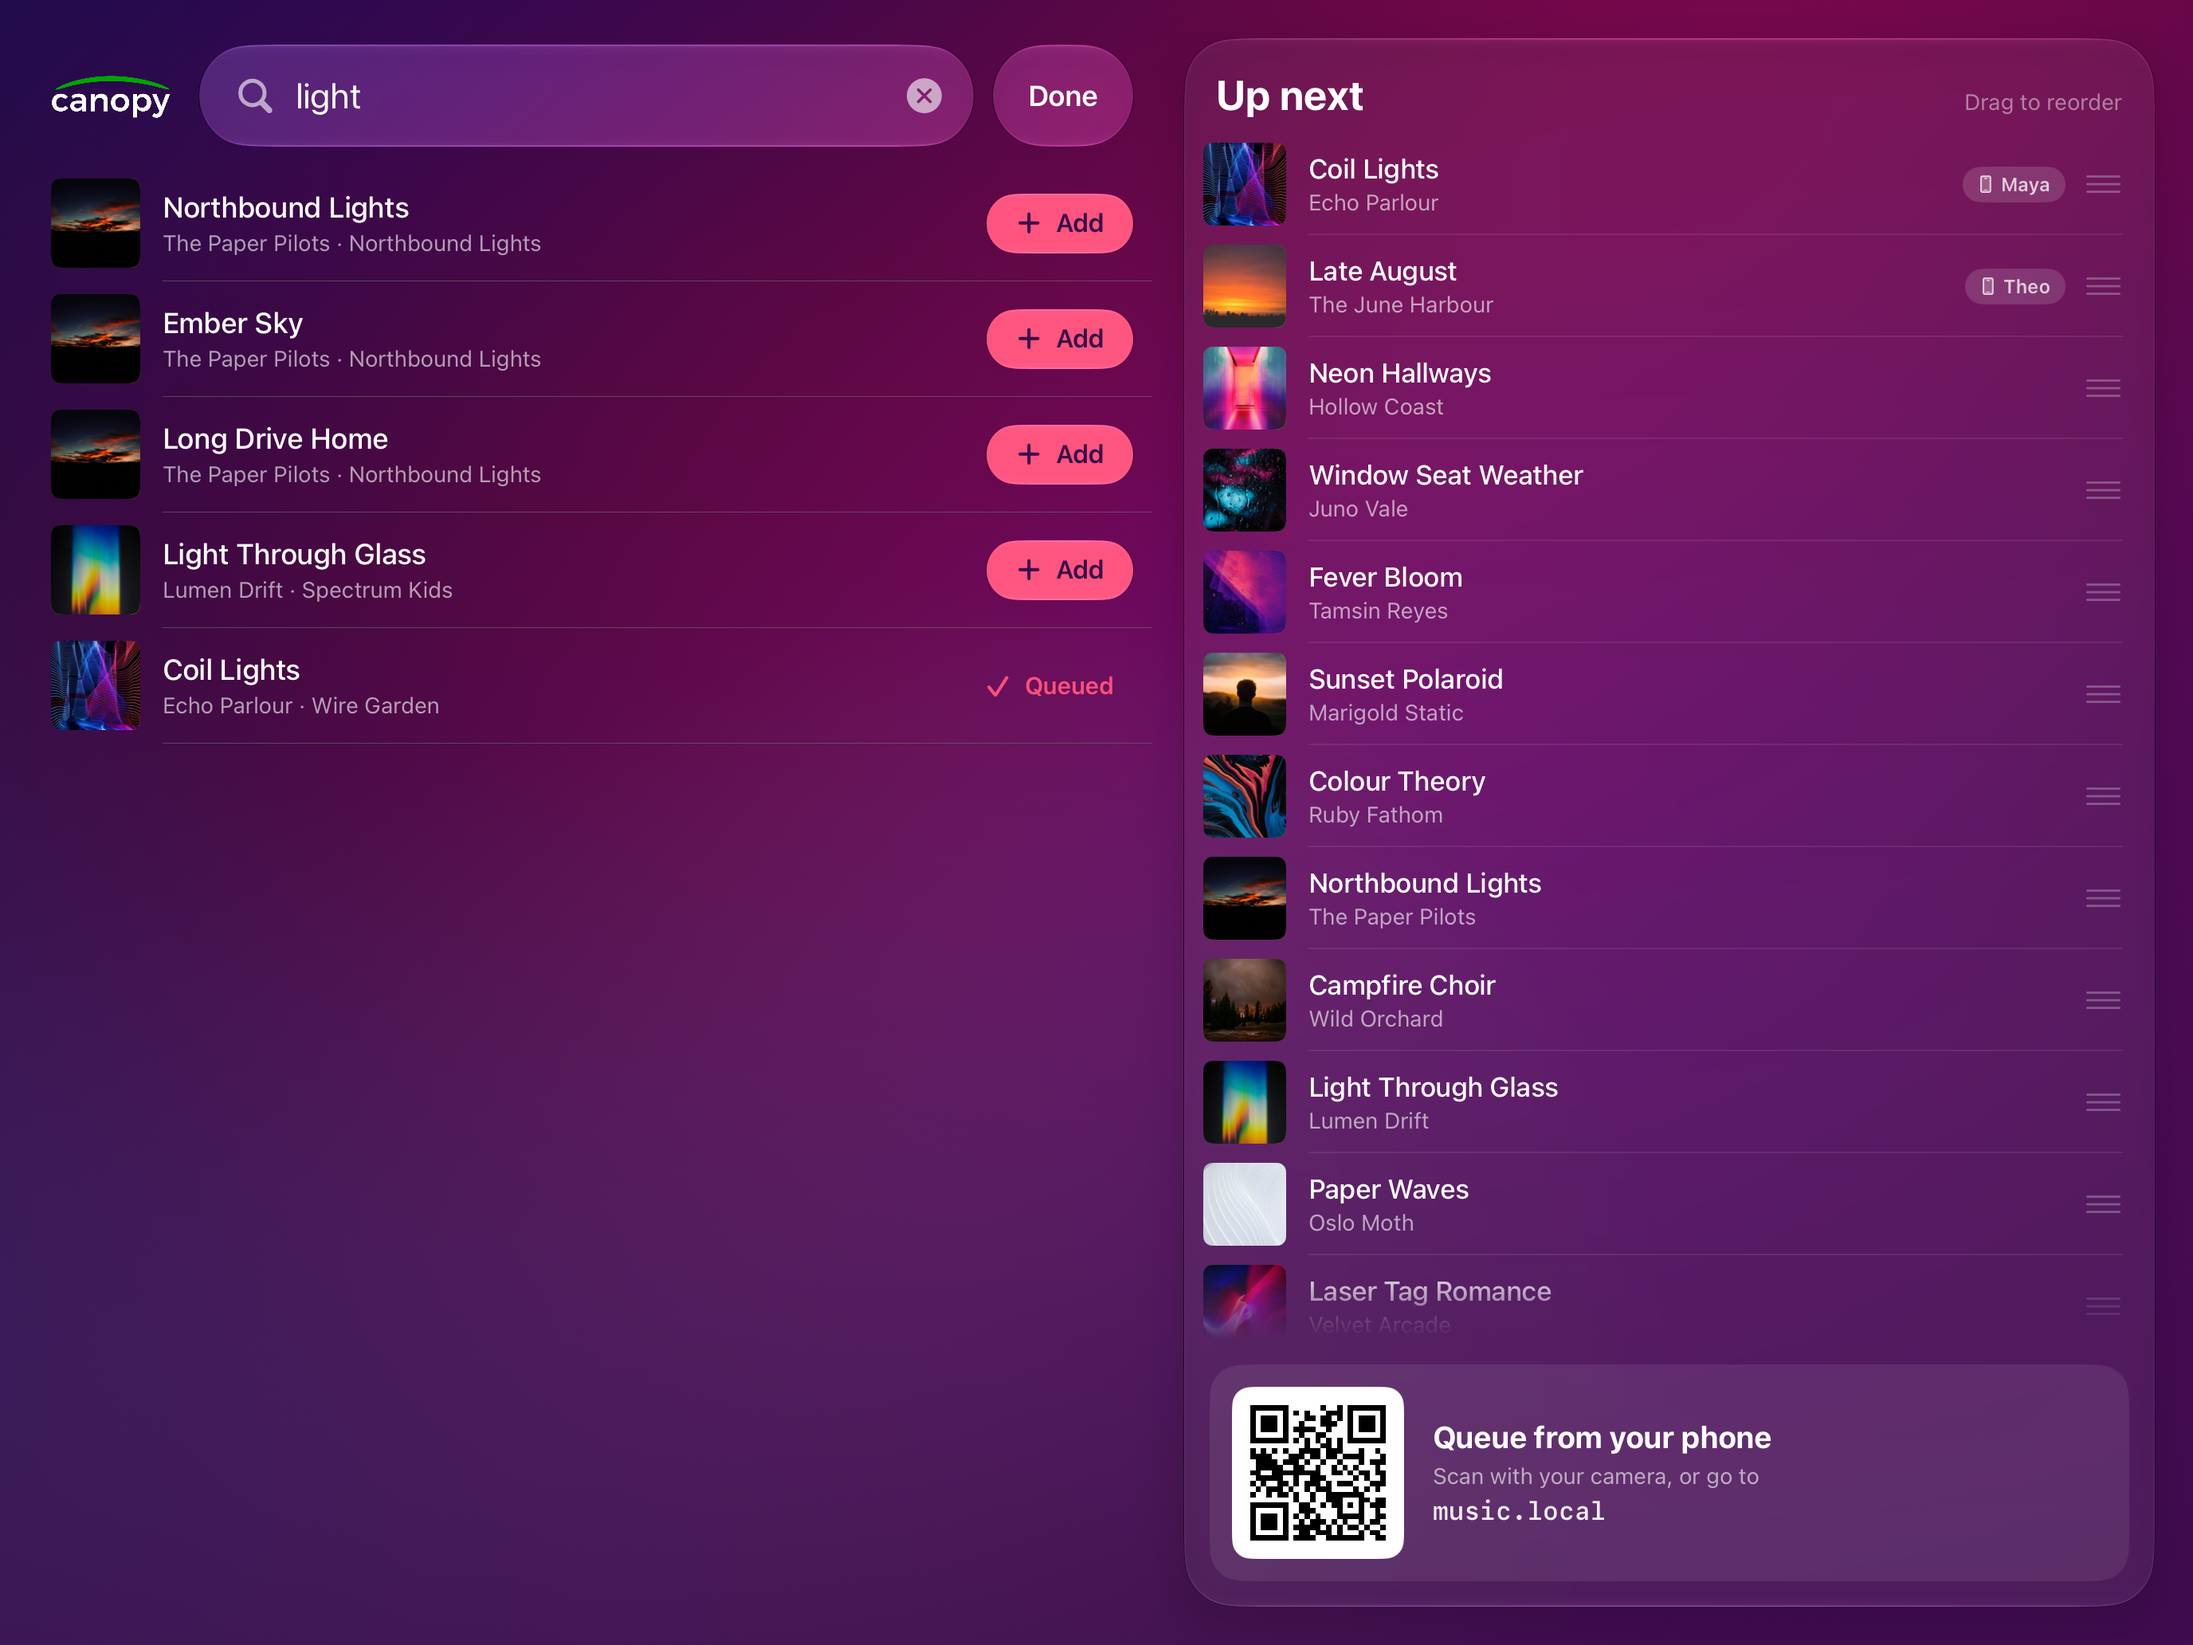
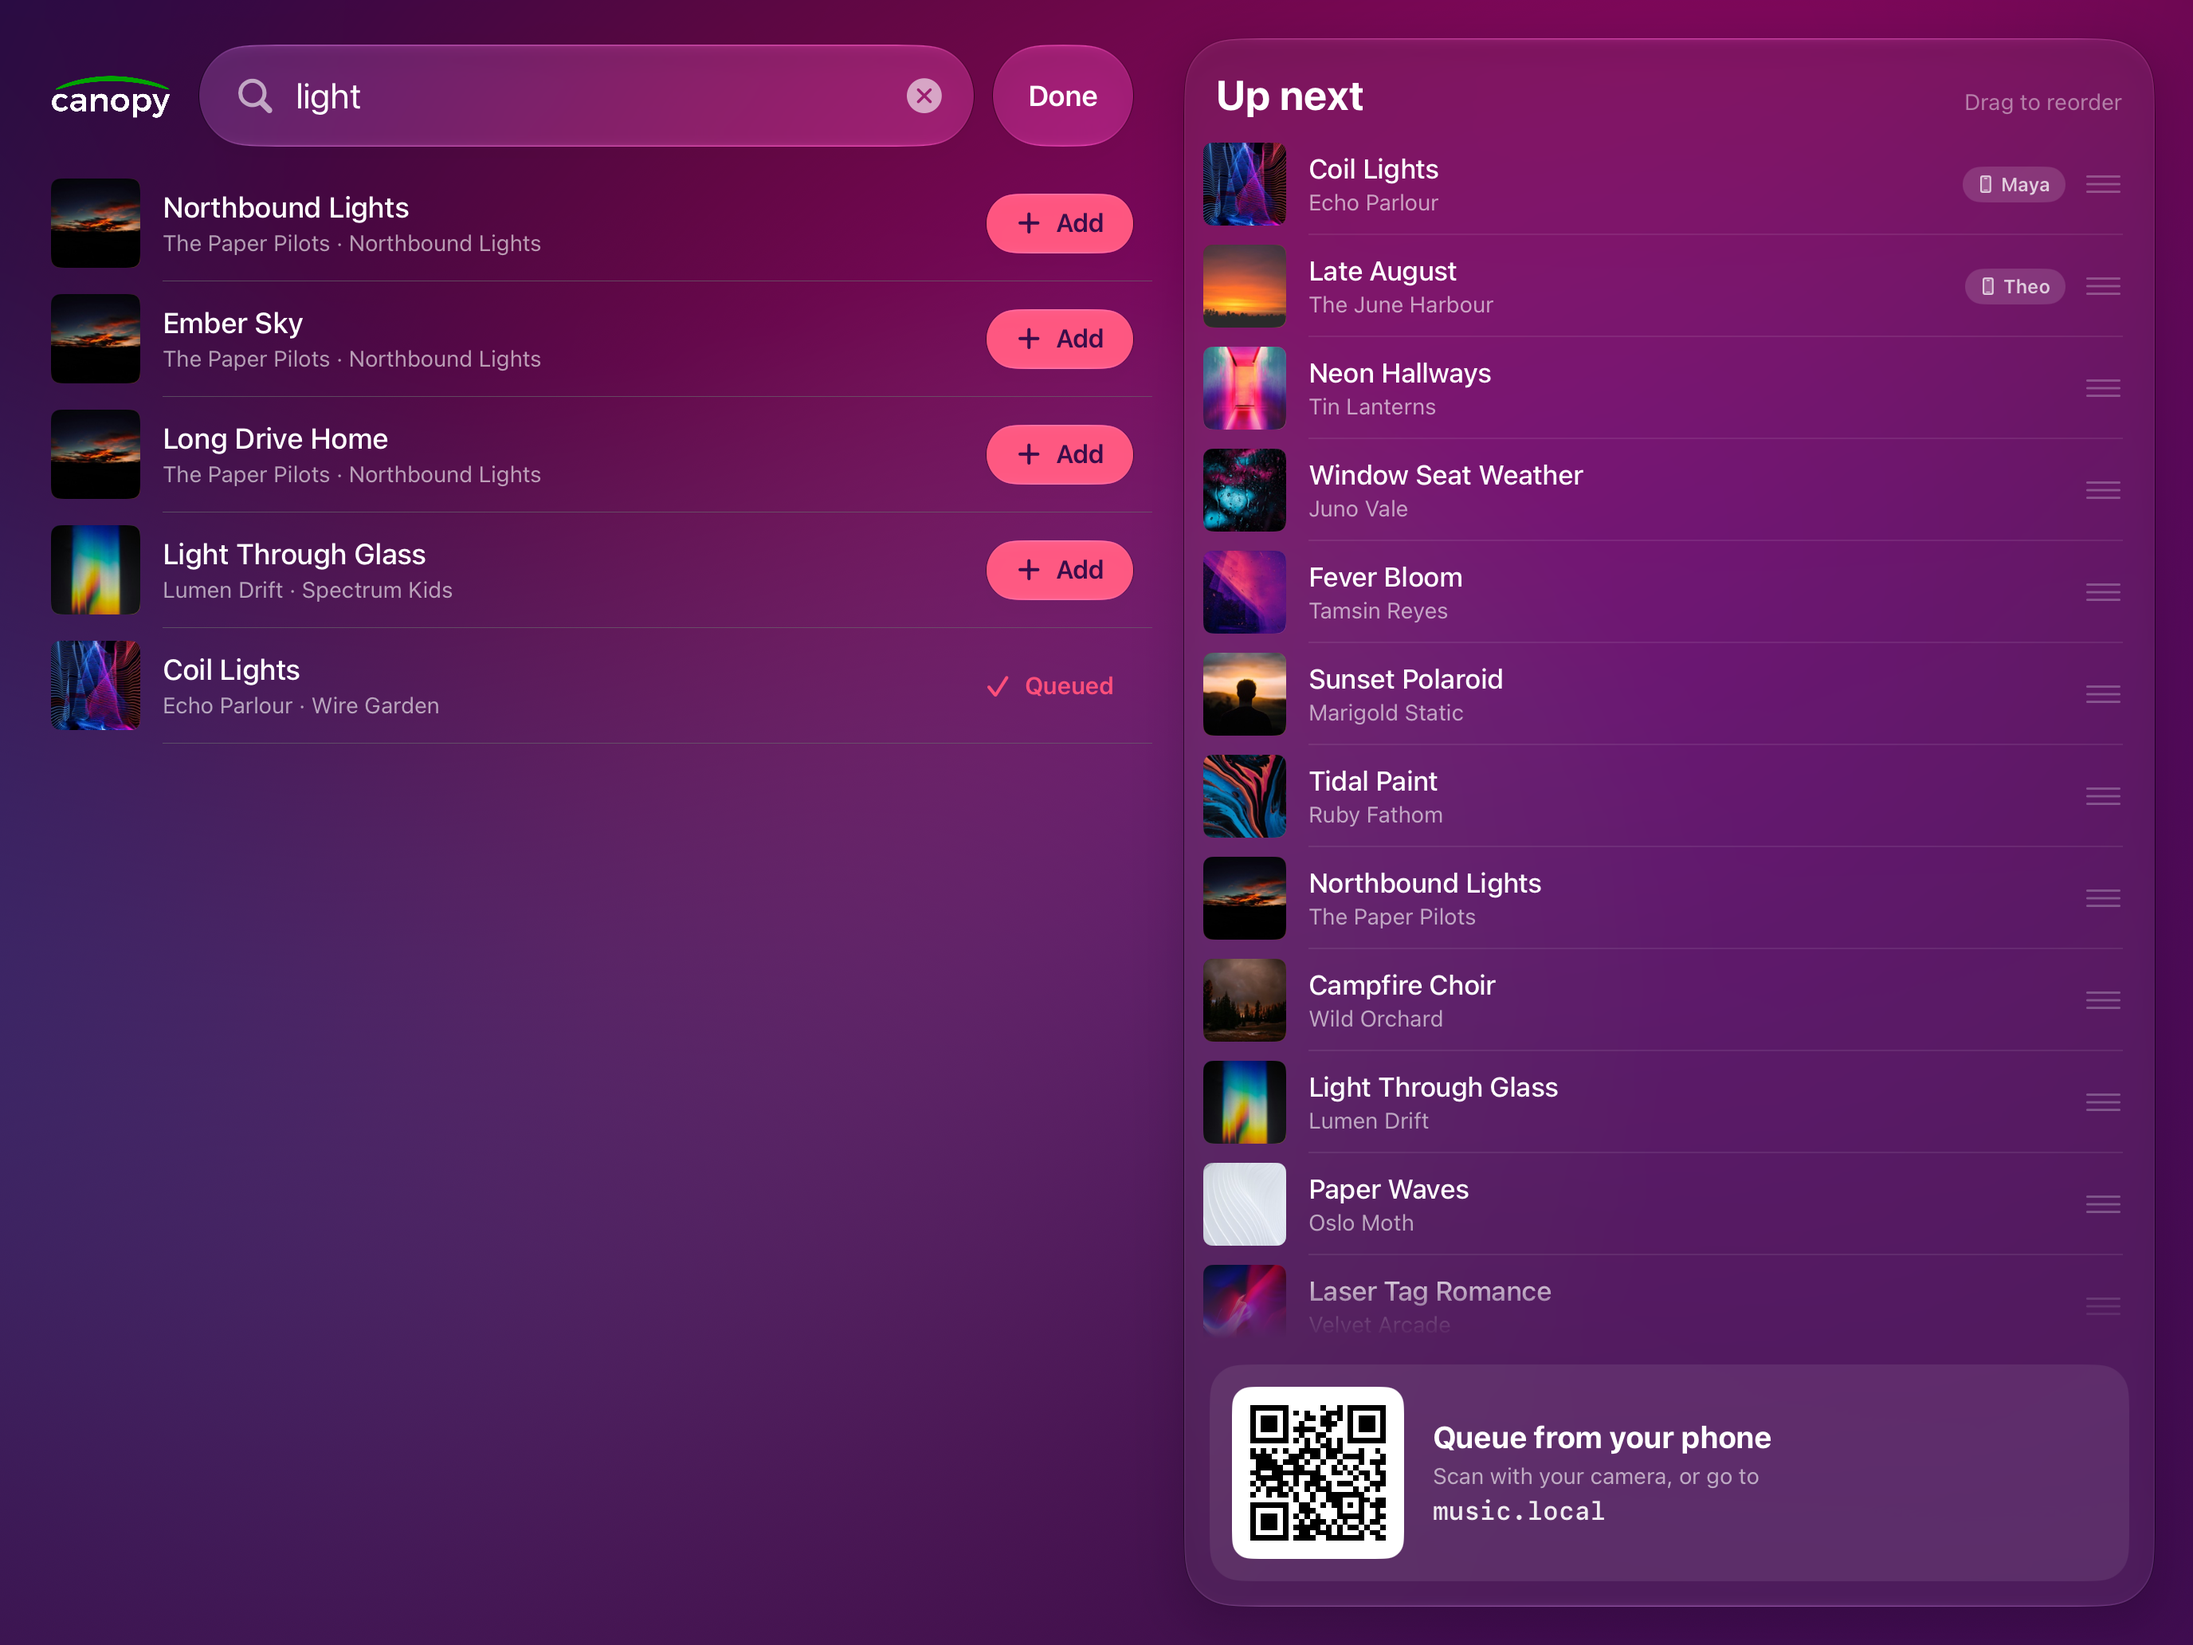
Screenshots: Tin Lanterns and Tidal Paint, clear of real names; the set reshot, plus a request playing
"Hollow Coast" read too close to Hollow Coves, and "Colour Theory" is a Soccer Mommy album.
All shots taken again after a simulator restart, which cleared a home indicator that had stuck
on (it showed as a bar down the side of the turned screenshots).

Changed region(s): [[0.2812, 0.0, 0.5, 0.093], [0.5938, 0.4651, 0.6875, 0.4961]]

diff --git a/CanopyMusicKit/Sources/CanopyMusicCore/ScreenshotCatalog.swift b/CanopyMusicKit/Sources/CanopyMusicCore/ScreenshotCatalog.swift
@@ -25,7 +25,7 @@ public struct ScreenshotCatalog: MusicCatalog {
     }
 
     static let albums: [Album] = [
-        Album(title: "Neon Hallways", artist: "Hollow Coast", cover: "1500462918059-b1a0cb512f1d",
+        Album(title: "Neon Hallways", artist: "Tin Lanterns", cover: "1500462918059-b1a0cb512f1d",
               colors: .init(background: "#B0246A", primary: "#FFF0F6", secondary: "#FFB3D1"),
               songs: [("Neon Hallways", 214), ("Slow Satellites", 247), ("Wishing Well Parade", 198)]),
         Album(title: "Afterglow Radio", artist: "Marigold Static", cover: "1481437642641-2f0ae875f836",
@@ -52,9 +52,9 @@ public struct ScreenshotCatalog: MusicCatalog {
         Album(title: "Paper Waves", artist: "Oslo Moth", cover: "1558591710-4b4a1ae0f04d",
               colors: .init(background: "#5D6675", primary: "#FFFFFF", secondary: "#D7DCE4"),
               songs: [("Paper Waves", 219), ("Quiet Machines", 247)]),
-        Album(title: "Colour Theory", artist: "Ruby Fathom", cover: "1604871000636-074fa5117945",
+        Album(title: "Tidal Paint", artist: "Ruby Fathom", cover: "1604871000636-074fa5117945",
               colors: .init(background: "#0B2140", primary: "#EAF4FF", secondary: "#F47B5B"),
-              songs: [("Colour Theory", 207), ("Undertow Dance", 232), ("Coral Sleep", 195)]),
+              songs: [("Tidal Paint", 207), ("Undertow Dance", 232), ("Coral Sleep", 195)]),
         // Guests' requests only (`request`): not in "Saturday Night", so no cover shows twice in Up Next.
         Album(title: "Wire Garden", artist: "Echo Parlour", cover: "1549317336-206569e8475c",
               colors: .init(background: "#10153A", primary: "#EEF1FF", secondary: "#FF4FA0"),
@@ -104,7 +104,7 @@ public struct ScreenshotCatalog: MusicCatalog {
         ("shot-saturday", "Saturday Night", partyOrder),
         ("shot-dinner", "Dinner Party", songs(of: ["Afterglow Radio", "Paper Waves", "Pine & Ember", "Low Tide Hearts"])),
         ("shot-sunday", "Sunday Morning", songs(of: ["Spectrum Kids", "Paper Waves", "Northbound Lights"])),
-        ("shot-roadtrip", "Road Trip", songs(of: ["Northbound Lights", "Afterglow Radio", "Colour Theory", "Neon Hallways"])),
+        ("shot-roadtrip", "Road Trip", songs(of: ["Northbound Lights", "Afterglow Radio", "Tidal Paint", "Neon Hallways"])),
         ("shot-latenight", "Late Night", songs(of: ["Fever Bloom", "Red Shift Summer", "Neon Hallways"])),
     ]
 

diff --git a/AppStoreScreenshots/Covers/README.md b/AppStoreScreenshots/Covers/README.md
@@ -10,7 +10,7 @@ photo's image id.
 
 | File | Album (invented) | Photographer | Source |
 |---|---|---|---|
-| 1500462918059-b1a0cb512f1d.jpg | Neon Hallways, Hollow Coast | Efe Kurnaz | https://unsplash.com/photos/multicolored-hallway-RnCPiXixooY |
+| 1500462918059-b1a0cb512f1d.jpg | Neon Hallways, Tin Lanterns | Efe Kurnaz | https://unsplash.com/photos/multicolored-hallway-RnCPiXixooY |
 | 1481437642641-2f0ae875f836.jpg | Afterglow Radio, Marigold Static | Tim Marshall | https://unsplash.com/photos/silhouette-of-a-man-facing-the-sunset-K2u71wv2eI4 |
 | 1544365558-35aa4afcf11f.jpg | Low Tide Hearts, Juno Vale | Julius Drost | https://unsplash.com/photos/closeup-photo-of-raindrops-pYAvBZvplOM |
 | 1508726989460-5741fe0304b3.jpg | Northbound Lights, The Paper Pilots | Patrick Hendry | https://unsplash.com/photos/silhouette-of-mountains-and-clouds-during-sunset-f3v1X9TMAlg |
@@ -19,6 +19,6 @@ photo's image id.
 | 1563089145-599997674d42.jpg | Fever Bloom, Tamsin Reyes | Jr Korpa | https://unsplash.com/photos/neon-pink-and-purple-light-particles-9XngoIpxcEo |
 | 1509934053585-b72b60c14695.jpg | Pine & Ember, Wild Orchard | Patrick Hendry | https://unsplash.com/photos/silhouette-photography-of-forest-9IJqtCeWim8 |
 | 1558591710-4b4a1ae0f04d.jpg | Paper Waves, Oslo Moth | Jean-Philippe Delberghe | https://unsplash.com/photos/a-close-up-of-a-white-wall-with-wavy-lines-75xPHEQBmvA |
-| 1604871000636-074fa5117945.jpg | Colour Theory, Ruby Fathom | Pawel Czerwinski | https://unsplash.com/photos/blue-white-and-red-abstract-painting-NTYYL9Eb9y8 |
+| 1604871000636-074fa5117945.jpg | Tidal Paint, Ruby Fathom | Pawel Czerwinski | https://unsplash.com/photos/blue-white-and-red-abstract-painting-NTYYL9Eb9y8 |
 | 1549317336-206569e8475c.jpg | Wire Garden, Echo Parlour | Zak | https://unsplash.com/photos/blue-red-and-pink-abstract-artwork-7wBFsHWQDlk |
 | 1472120435266-53107fd0c44a.jpg | Ochre Fields, The June Harbour | freestocks | https://unsplash.com/photos/silhouette-of-trees-ebZUZ1MiVnU |
